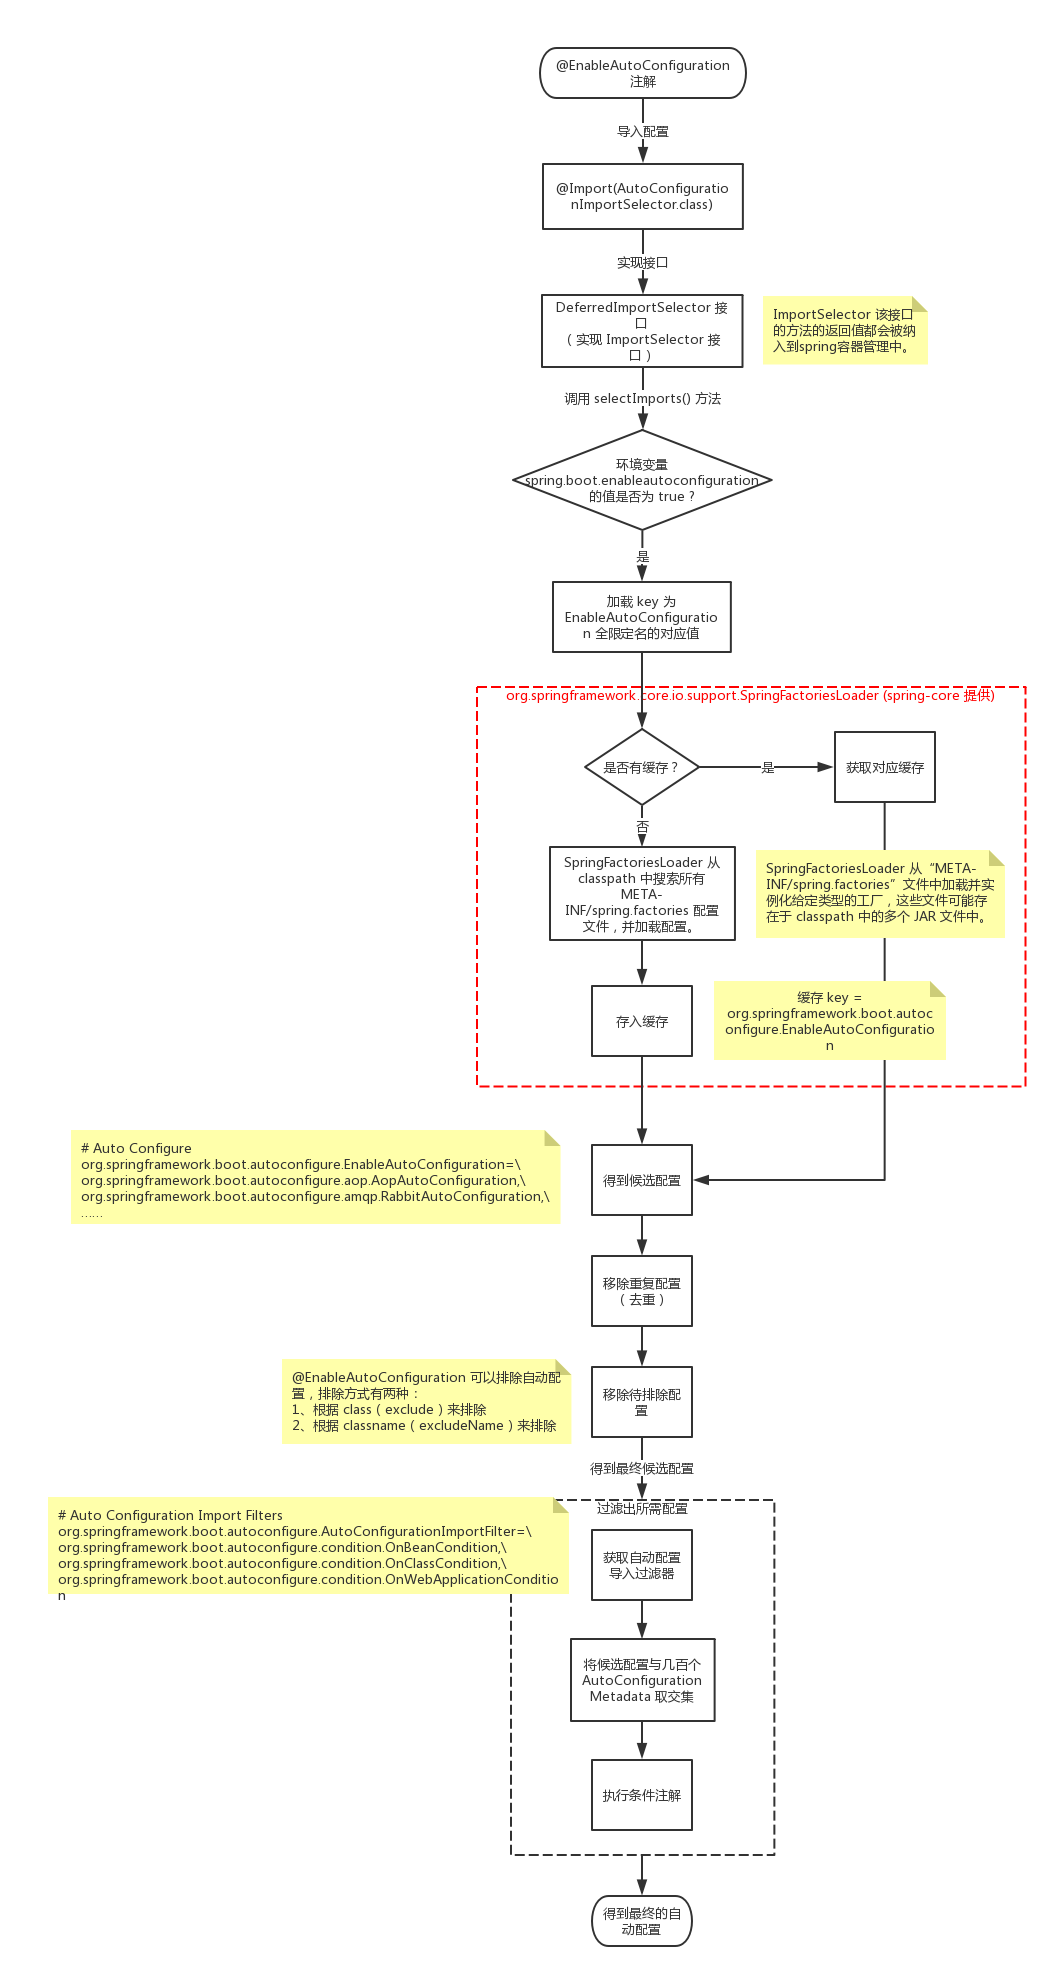
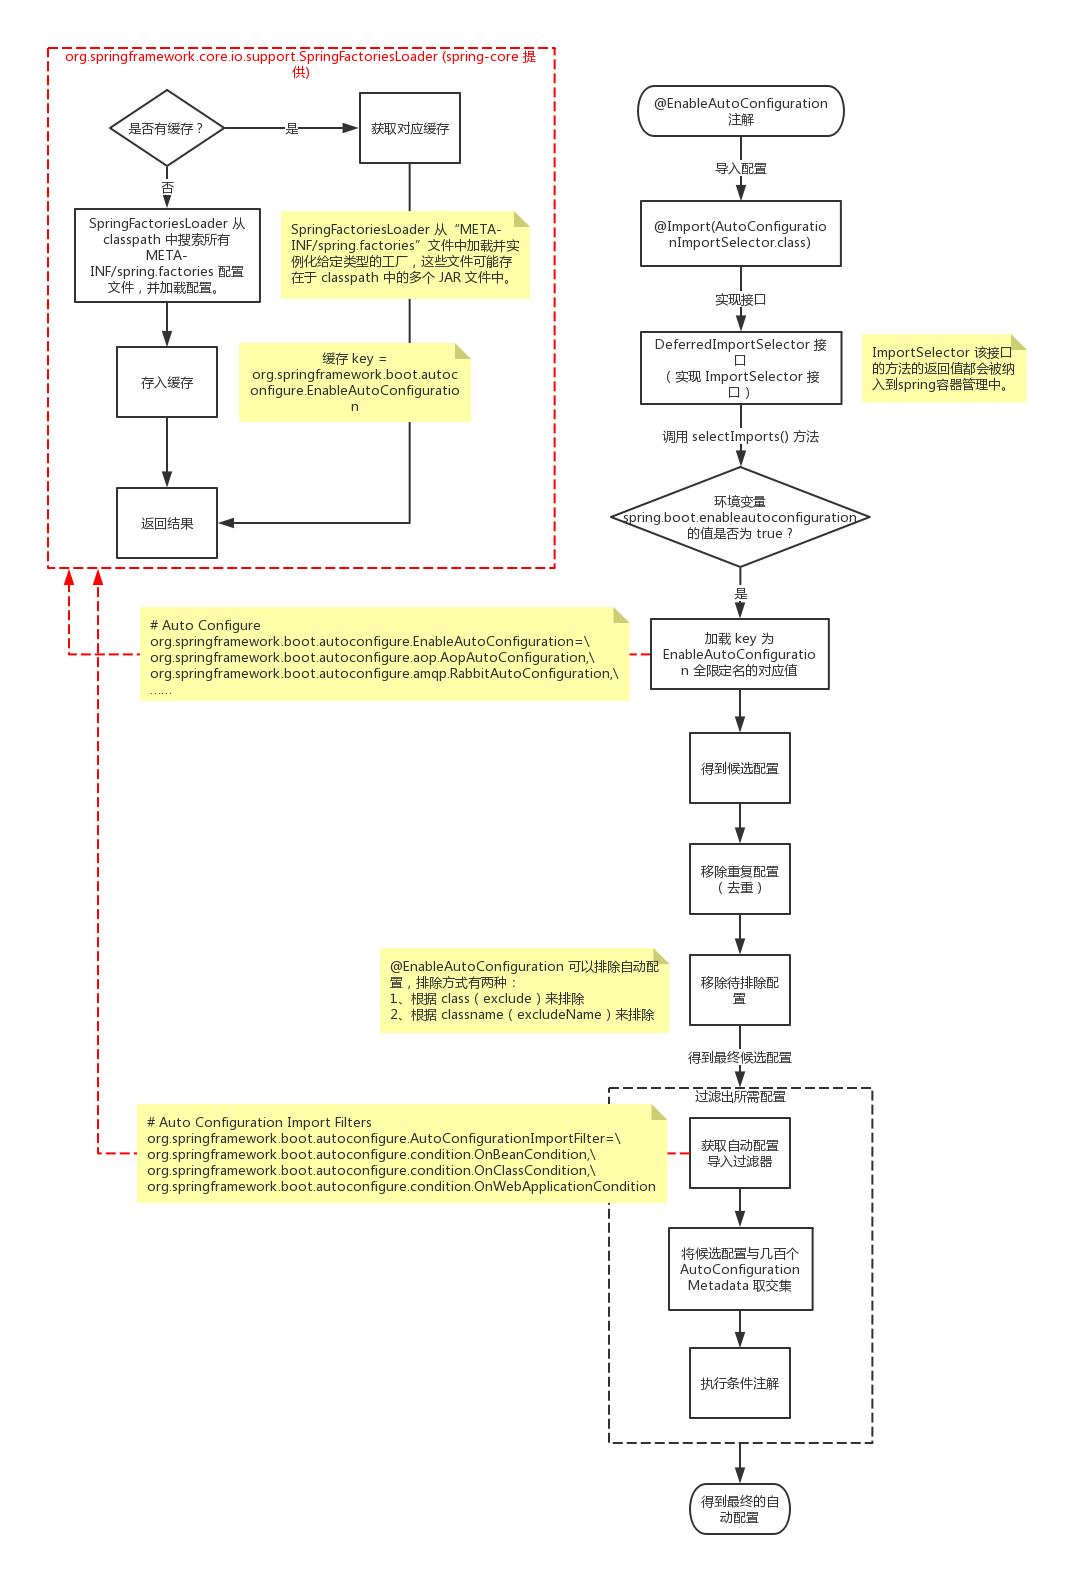
补充 Java SPI 和 Spring Factories

diff --git a/source/_posts/spring-factories.md b/source/_posts/spring-factories.md
@@ -1,0 +1,98 @@
+---
+title: Spring Boot 自动配置及 Factories 机制总结
+date: 2019-01-20 17:27:20
+updated:
+tags: Java
+---
+
+# 自动配置的原理
+
+Spring Boot 应用中的"自动配置"是通过 `@EnableAutoConfiguration` 注解进行开启的。`@EnableAutoConfiguration` 可以帮助 Spring Boot 应用将所有符合条件的 `@Configuration` 配置类都加载到 Spring IoC 容器中。其背后使用了 Spring Factories 机制进行配置加载，即 spring-core 中的加载类 `SpringFactoriesLoader`。详见[文档](https://docs.spring.io/spring-framework/docs/current/javadoc-api/org/springframework/core/io/support/SpringFactoriesLoader.html)：
+
+> SpringFactoriesLoader loads and instantiates factories of a given type from "META-INF/spring.factories" files which may be present in multiple JAR files in the classpath. The spring.factories file must be in Properties format, where the key is the fully qualified name of the interface or abstract class, and the value is a comma-separated list of implementation class names. 
+
+Spring Boot 应用的自动配置流程如下：
+
+![Spring SPI](/img/spring/enable-auto-configuration.png)
+
+使用 `SpringFactoriesLoader` 加载指定 Auto Configure：
+
+```
+# Auto Configure
+org.springframework.boot.autoconfigure.EnableAutoConfiguration=\
+org.springframework.boot.autoconfigure.admin.SpringApplicationAdminJmxAutoConfiguration,\
+org.springframework.boot.autoconfigure.aop.AopAutoConfiguration,\
+org.springframework.boot.autoconfigure.amqp.RabbitAutoConfiguration,\
+org.springframework.boot.autoconfigure.batch.BatchAutoConfiguration,\
+org.springframework.boot.autoconfigure.cache.CacheAutoConfiguration,\
+......
+```
+
+结果如下：
+
+![SpringFactoriesLoader 解析结果](/img/spring/SpringFactoriesLoader.png)
+
+继续使用 `SpringFactoriesLoader` 解析加载 Auto Configuration Import Filters：
+
+```
+# Auto Configuration Import Filters
+org.springframework.boot.autoconfigure.AutoConfigurationImportFilter=\
+org.springframework.boot.autoconfigure.condition.OnClassCondition
+......
+```
+
+针对这 118 个候选的 Auto Configure，执行 Import Filters 对应的条件注解：
+
+* `OnClassCondition`
+
+  ```java
+  // 底层实现，加载成功则返回 true；加载失败则抛出 java.lang.ClassNotFoundException，捕获异常后返回 false
+  private static Class<?> forName(String className, ClassLoader classLoader)
+      throws ClassNotFoundException {
+      if (classLoader != null) {
+          return classLoader.loadClass(className);
+      }
+      return Class.forName(className);
+  }
+  ```
+
+* `OnBeanCondition`
+
+  ......
+
+过滤结果如下：
+
+![](/img/spring/condition.png)
+
+`TRACE` 日志如下：
+
+```
+Filtered 30 auto configuration class in 1000 ms
+```
+
+# Spring Factories 机制
+
+在日常工作中，我们可能需要实现一些 SDK 或者 Spring Boot Starter 给被人使用，这个时候我们就可以使用这个 Factories 机制。Factories 机制可以让 SDK 或者 Starter 的使用只需要很少甚至不需要进行配置，只需要在服务中引入我们的 jar 包即可完成自动加载及配置。
+
+jar 包中 `META-INF/spring.factories` 配置如下：
+
+```
+org.springframework.boot.autoconfigure.EnableAutoConfiguration=\
+com.example.YourAutoConfig
+```
+
+加载 `YourAutoConfig` 配置类之后，会根据其条件化注解及传递依赖解析以实现 Spring 应用上下文里的 bean 自动配置，详见[《Spring Bean 条件化配置总结》](/2017/06/05/spring-conditional-bean/)。
+
+本质上，Spring Factories 机制与 Java SPI 机制原理都差不多：都是通过指定的规则，在规则定义的文件中配置接口的各种实现，通过 key-value 的方式读取，并以反射的方式实例化指定的类型。
+
+# 参考
+
+https://docs.spring.io/spring-framework/docs/current/javadoc-api/org/springframework/core/io/support/SpringFactoriesLoader.html
+
+https://github.com/spring-projects/spring-framework/blob/master/spring-core/src/main/java/org/springframework/core/io/support/SpringFactoriesLoader.java
+
+《[Spring Boot spring.factories vs @Enable annotations](https://stackoverflow.com/questions/42819558/spring-boot-spring-factories-vs-enable-annotations)》
+
+https://www.cnblogs.com/zheting/p/6707035.html
+
+http://www.cnblogs.com/whx7762/p/7832985.html
